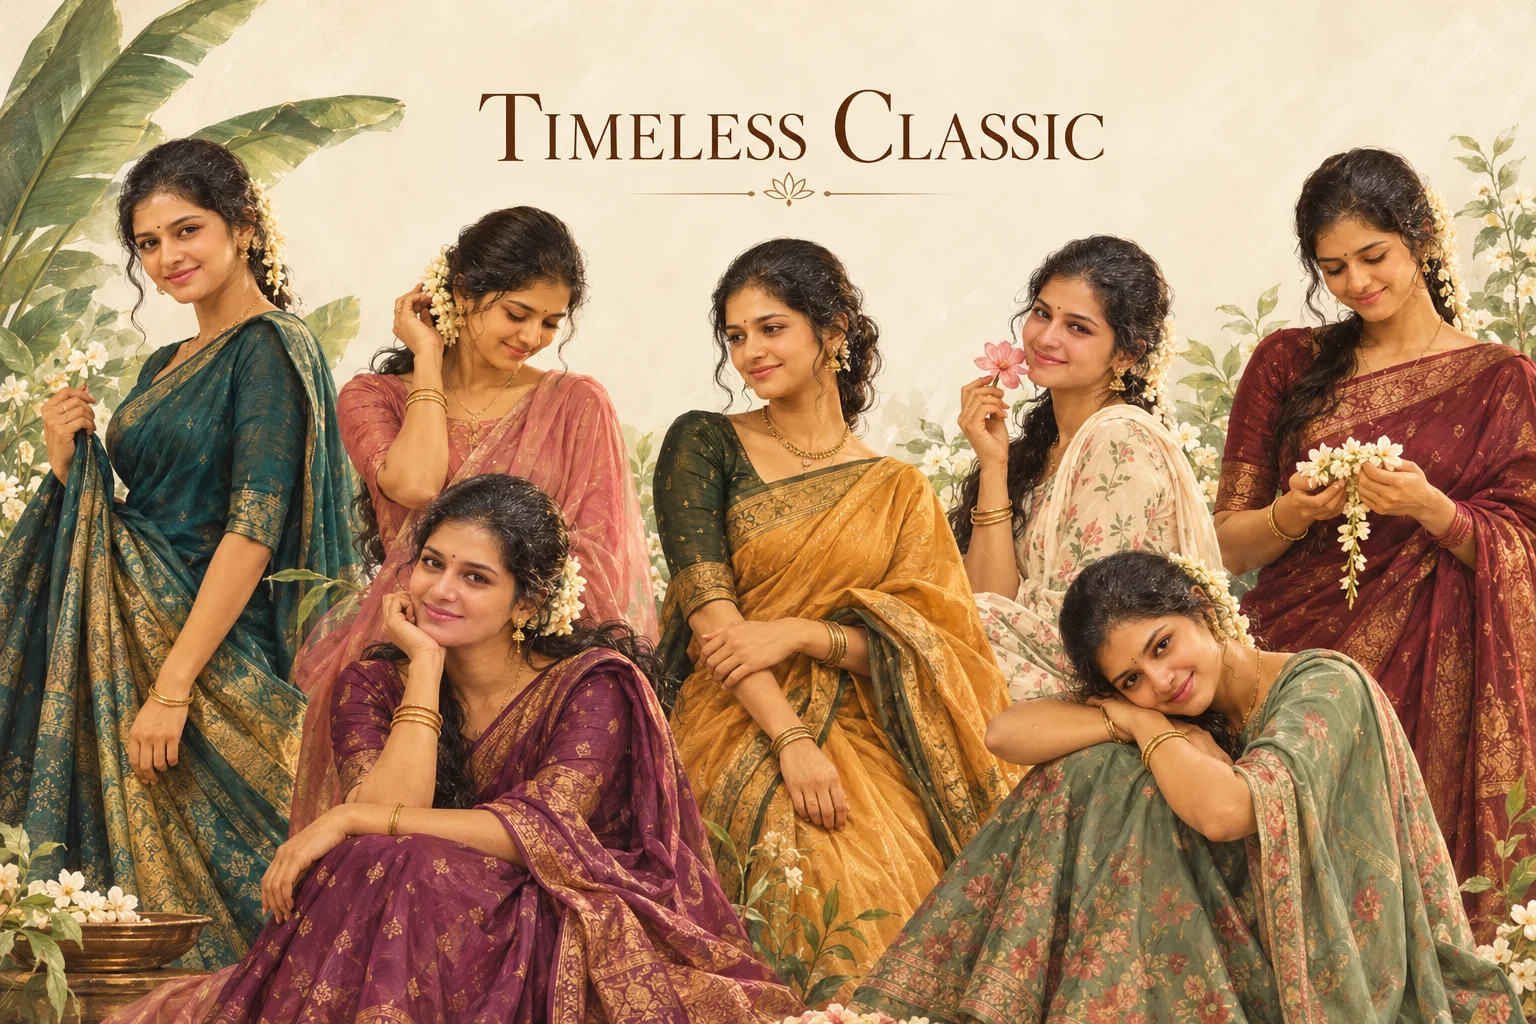
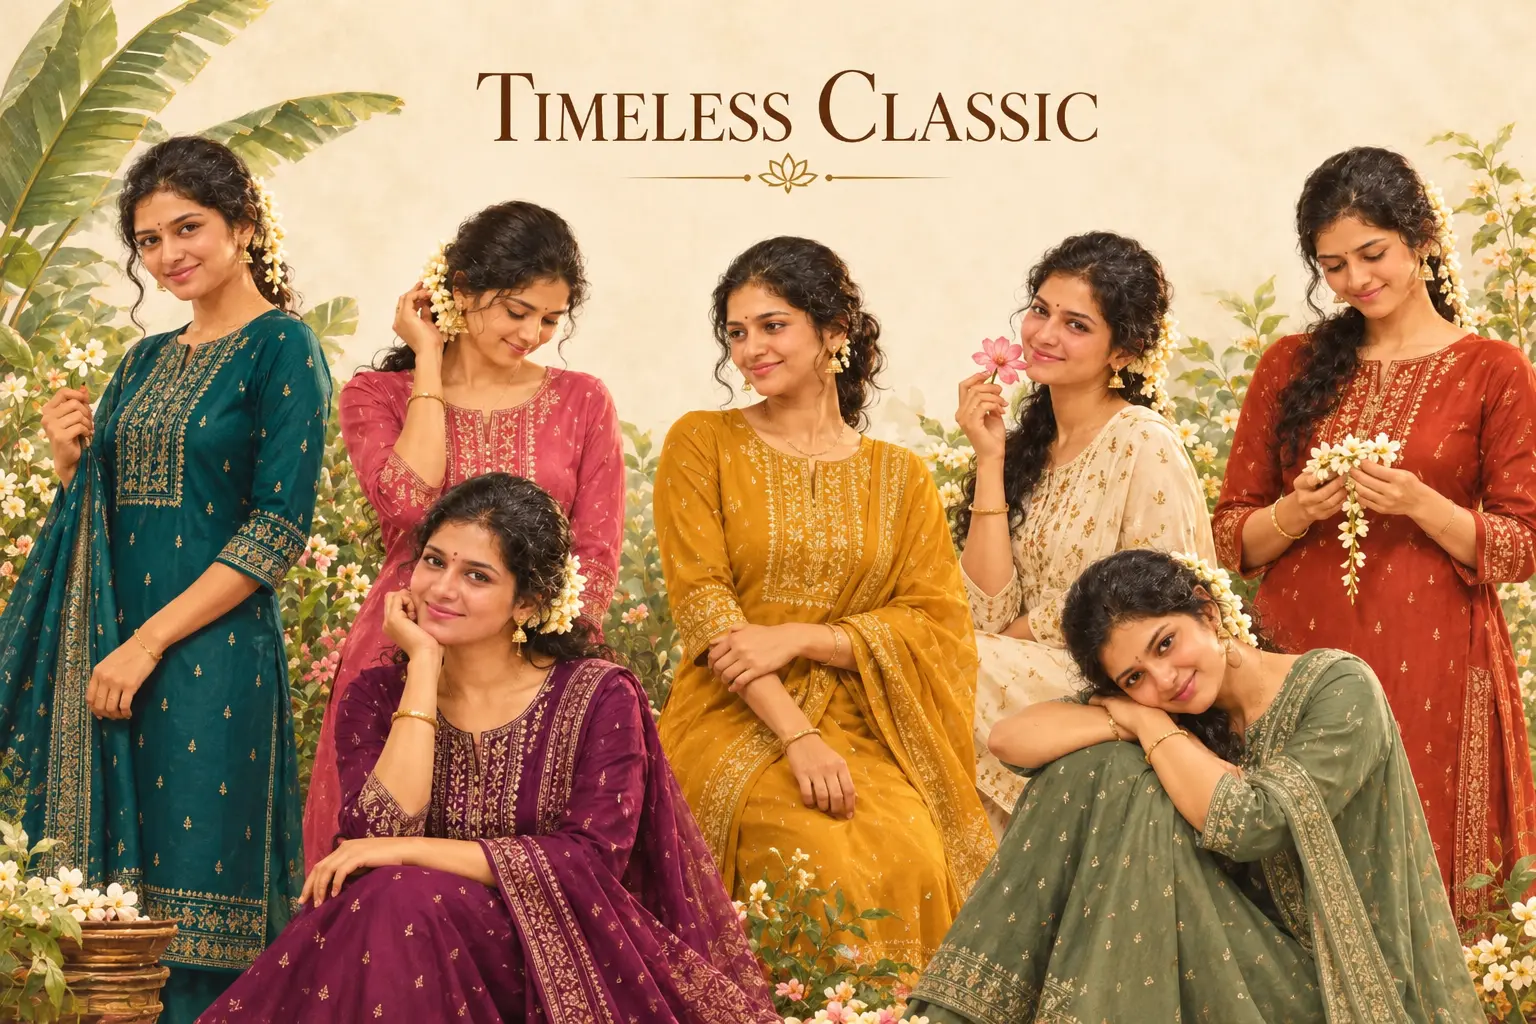
hero image

diff --git a/static/storefront/script.js b/static/storefront/script.js
@@ -1024,17 +1024,37 @@ if (sizeGuideOverlay) {
 }
 
 const parallax = document.querySelectorAll('.parallax');
+const prefersReducedMotion = window.matchMedia('(prefers-reduced-motion: reduce)');
 function moveParallax(){ parallax.forEach(el => {
-  if (el.classList.contains('quote-image') && window.matchMedia('(max-width:640px)').matches) {
+  const isHero = el.classList.contains('hero-image');
+  if (prefersReducedMotion.matches || (el.classList.contains('quote-image') && window.matchMedia('(max-width:640px)').matches)) {
     el.style.transform = 'none';
     return;
   }
   const rect = el.parentElement.getBoundingClientRect();
   const speed = Number(el.dataset.speed);
-  el.style.transform = `translateY(${(rect.top + rect.height / 2) * speed}px)`;
+  const translateY = (rect.top + rect.height / 2) * speed;
+  if (isHero) {
+    const progress = Math.min(1, Math.max(0, -rect.top / Math.max(rect.height, 1)));
+    const rotateX = 1.2 - progress * 2.4;
+    const rotateY = -3 + progress * 6;
+    const zoom = 1.06 + progress * 0.1;
+    el.style.transform = `translate3d(0, ${translateY}px, 0) rotateX(${rotateX}deg) rotateY(${rotateY}deg) scale(${zoom})`;
+    return;
+  }
+  el.style.transform = `translateY(${translateY}px)`;
 }); }
-moveParallax(); window.addEventListener('scroll', moveParallax, {passive:true});
-window.addEventListener('resize', moveParallax, {passive:true});
+let parallaxFrame = 0;
+function scheduleParallax(){
+  if (parallaxFrame) return;
+  parallaxFrame = requestAnimationFrame(() => {
+    parallaxFrame = 0;
+    moveParallax();
+  });
+}
+moveParallax(); window.addEventListener('scroll', scheduleParallax, {passive:true});
+window.addEventListener('resize', scheduleParallax, {passive:true});
+prefersReducedMotion.addEventListener('change', scheduleParallax);
 
 document.querySelectorAll('[data-before-after]').forEach(compare => {
   const range = compare.querySelector('.before-after-range');

diff --git a/static/storefront/style.css b/static/storefront/style.css
@@ -369,13 +369,17 @@ main img:hover{transform:scale(1.04)}
 @media(max-width:640px){.product-popup{max-height:calc(100svh - 20px)}}
 
 /* Keep the hero photo clear; give its copy a warm, readable surface. */
+.hero{perspective:1200px;perspective-origin:50% 45%;transform-style:preserve-3d}
+.hero-image{transform-style:preserve-3d;transform-origin:center 52%;backface-visibility:hidden}
 .hero-copy{left:6vw;bottom:7vh;max-width:520px;padding:24px 28px;background:rgba(254,246,231,.28);color:#fff;border:1px solid rgba(255,255,255,.65);border-radius:16px}
+.hero-copy{transform:translateZ(44px)}
 .hero-copy h1{font-size:clamp(2.2rem,4vw,3.8rem);line-height:1.08}
 .hero-copy .eyebrow{opacity:1;color:#fff;margin-bottom:12px}
 .hero-copy .arrow-link{color:#fff;border-color:rgba(255,255,255,.7);margin-top:22px;font-size:12px}
 /* Show the whole hero photo instead of cropping it to the hero box. */
 .hero{border-radius:10px}
 .hero-image{background-size:contain;border-radius:10px}
+@media(prefers-reduced-motion:reduce){.hero-copy{transform:none}}
 /* Prominent prices and rounded product actions. */
 .product-info{flex-wrap:wrap}
 .buy{gap:10px}

diff --git a/static/storefront/index.html b/static/storefront/index.html
@@ -137,7 +137,7 @@
       <div class="hero-copy">
         <p class="eyebrow">The festive edit · 2026</p>
         <h1>Clothes that carry <em>home</em> with them.</h1>
-        <a class="arrow-link" href="#collection">Discover the collection <span>↓</span></a>
+        <a class="arrow-link" href="#home-collections-title">Explore collections <span>↓</span></a>
       </div>
     </section>
 
